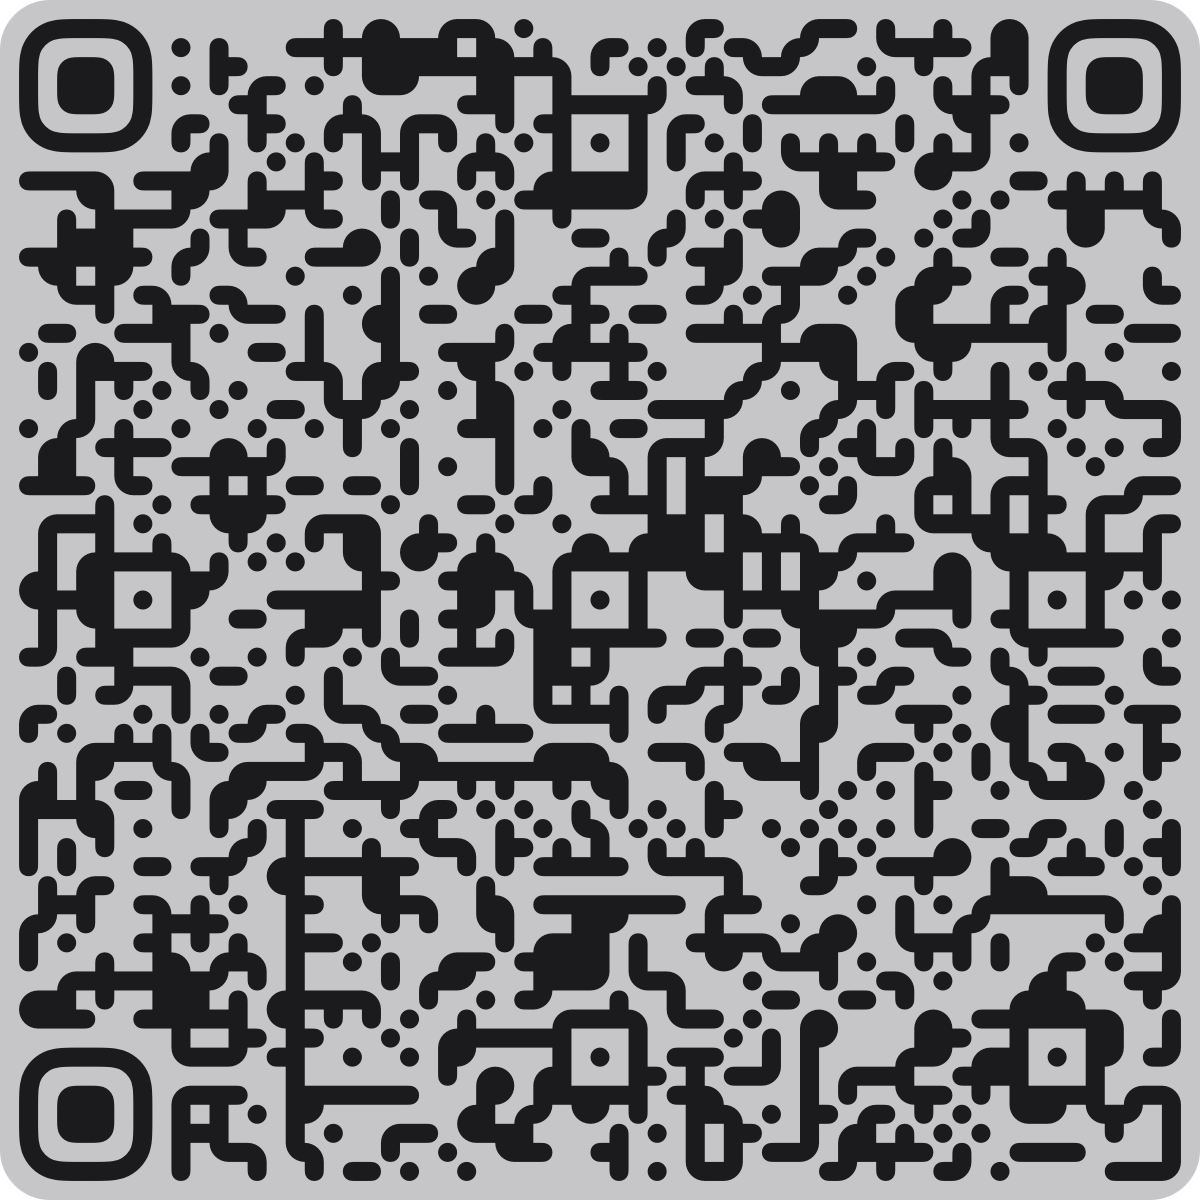
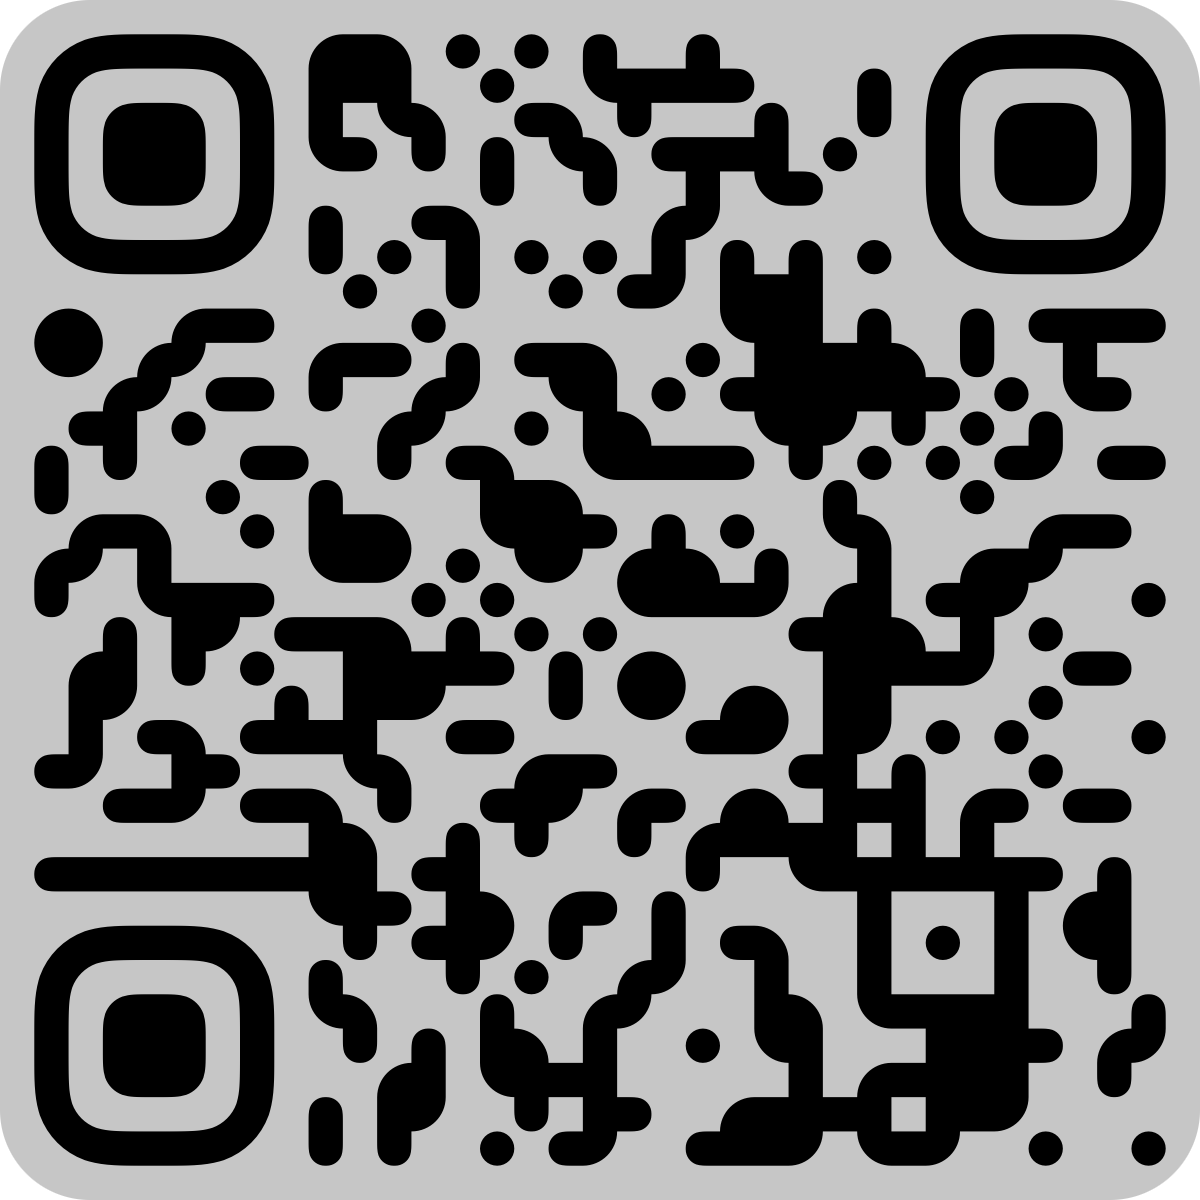
Update contact information

diff --git a/_tabs/contact.md b/_tabs/contact.md
@@ -4,8 +4,16 @@ icon: fas fa-envelope
 order: 2
 ---
 
-Wenn du mich kontaktieren möchtest, kannst du das über den [SimpleX-Messenger](https://simplex.chat/de) tun. Scanne einfach folgenden QR-Code und folge den Anweisungen in der SimpleX-App:
+Wenn du mich kontaktieren möchtest, kannst du das über den [SimpleX-Messenger](https://simplex.chat/de) tun. Scanne einfach folgenden QR-Code (oder klicke auf diesen [→ Link](https://smp8.simplex.im/a#FAXxG74EzdYwdcaMXRqV75TGrZWgeD2dEM6iGJOsGPw)) und folge den Anweisungen in der SimpleX-App:
 
-![Jens-Uwe Roßbach via SimpleX](/assets/img/qr_simplex.png)
+![Jens-Uwe Roßbach via SimpleX](/assets/img/qr_simplex.png){: width="300px" }
 
-Alternativ zum Scannen des QR-Codes kannst du auch auf diesen [→ Link](https://simplex.chat/contact#/?v=2-7&smp=smp%3A%2F%2F0YuTwO05YJWS8rkjn9eLJDjQhFKvIYd8d4xG8X1blIU%3D%40smp8.simplex.im%2Fl4nHZRdUCx-dd-3xbZUiN2n9gRoQCg_L%23%2F%3Fv%3D1-4%26dh%3DMCowBQYDK2VuAyEADAmjwkxLxFjmADUfeF6bEYQK7YP23vJFOB2Sgxed0zI%253D%26q%3Dc%26srv%3Dbeccx4yfxxbvyhqypaavemqurytl6hozr47wfc7uuecacjqdvwpw2xid.onion) klicken, um dich zu verbinden.
+Wenn du möchtest, kannst du mich auch über [Nostr](https://nostr.com) kontaktieren und ggf. meinem Feed folgen. Falls du Nostr schon verwendest, kannst du folgenden QR-Code scannen (oder auf diesen [→ Link](nostr:npub177txmk4vuawqf87p9cezss4q6960h2wsnsk40c7npszsaa3zfe6s03hftw) klicken), der dich dann zu meinem Nostr-Profil führt:
+
+![Jens-Uwe Roßbach auf Nostr](/assets/img/qr_nostr.png){: width="300px" }
+
+Solltest du Nostr noch nicht verwenden, kannst du dir mein [→ Profil auf Njump](https://njump.me/npub177txmk4vuawqf87p9cezss4q6960h2wsnsk40c7npszsaa3zfe6s03hftw) anschauen.
+
+Falls du mir direkt über meinen öffentlichen Schlüssel folgen möchtest, kannst du diesen auch hier kopieren:
+
+    npub177txmk4vuawqf87p9cezss4q6960h2wsnsk40c7npszsaa3zfe6s03hftw
